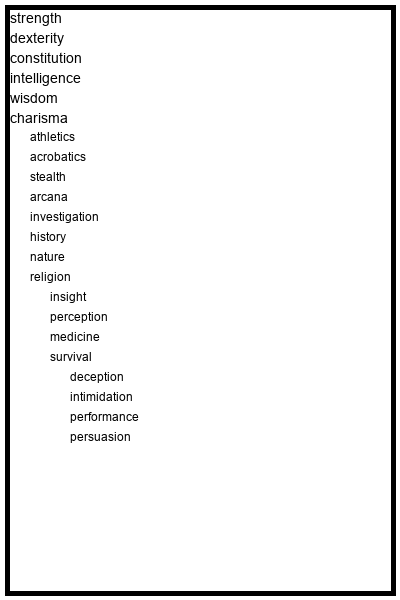
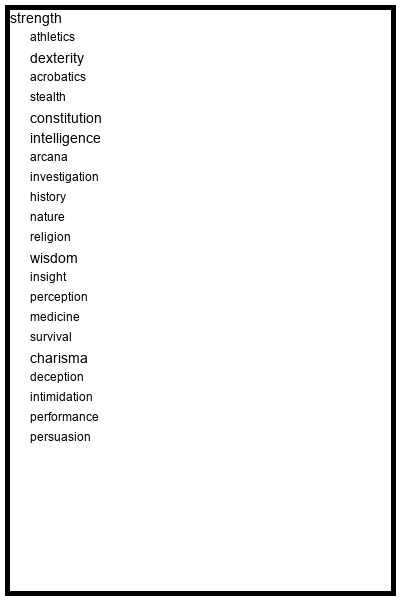
moved to relative position, and sorted the attributes and abilities. now i need to continue looking into the layout of the back, adding the modifiers

Changed region(s): [[0.03, 0.03, 0.36, 0.75]]

diff --git a/src/test_e_layout_json.py b/src/test_e_layout_json.py
@@ -17,7 +17,6 @@ import PIL.Image as image
 import PIL.ImageDraw as draw
 import PIL.ImageFont as font
 
-
 def load_layout_from_json(
     i_file_path: str,
 ) -> List[Dict[str, Any]]:
@@ -162,16 +161,19 @@ def draw_layout_to_image(
     # Default font – Pillow will fallback to a built‑in one if the path is wrong
     cl_default_font: font.FreeTypeFont = font.load_default()
 
-    ast_abilities = i_layout["layout"]
+    #ast_abilities = i_layout["layout"]
+    ast_abilities = i_layout
 
+    cursor_w = 0
+    cursor_h = 0
 
     # Render each layout item; skip anything that isn’t a dict
     for st_item in ast_abilities:
         
 
         s_text: str = st_item.get("s_name", "")
-        n_x_pos: int = st_item.get("w_pos", 0)
-        n_y_pos: int = st_item.get("h_pos", 0)
+        n_w_pos: int = st_item.get("w_pos", 0)
+        n_h_pos: int = st_item.get("h_pos", 0)
         n_font_size: int = st_item.get("h_font", 12)
 
         try:
@@ -182,7 +184,14 @@ def draw_layout_to_image(
         except OSError:
             cl_item_font = cl_default_font
 
-        cl_draw.text((n_x_pos, n_y_pos), s_text, fill=(0, 0, 0), font=cl_item_font)
+        if (cursor_h <= 0):
+            cursor_w = n_w_pos
+            cursor_h = n_h_pos
+        else:
+            cursor_w += n_w_pos
+            cursor_h += n_h_pos
+
+        cl_draw.text((cursor_w, cursor_h), s_text, fill=(0, 0, 0), font=cl_item_font)
 
     return cl_image
 
